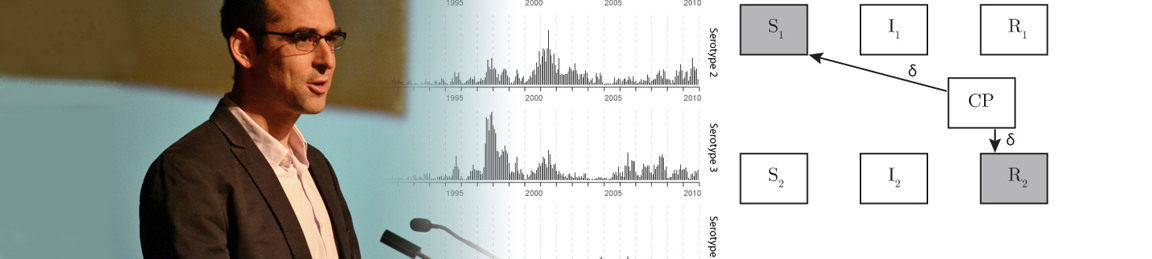
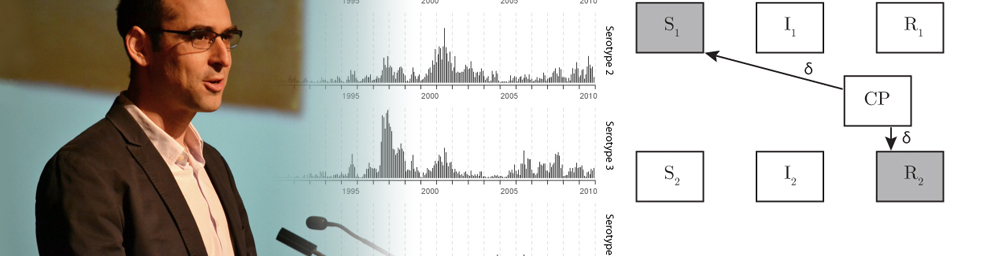
Fix home page carousel

diff --git a/index.html b/index.html
@@ -6,8 +6,10 @@ layout: home
   <div class="carousel">
     {% for image in site.static_files %}
       {% if image.path contains 'images/carousel' %}
-        <div class="carousel-item">
-          <img src="{{ site.baseurl }}{{ image.path }}" class="rounded img-responsive" alt="{{ image.name }}">
+        <div class="carousel-item-home"
+             style="background: url({{ site.baseurl }}{{ image.path }}) no-repeat center center;
+                    min-height: 330px;
+                    background-size: contain">
         </div>
       {% endif %}
     {% endfor %}

diff --git a/assets/js/carousel.js b/assets/js/carousel.js
@@ -4,7 +4,7 @@ $(document).ready(function () {
   $('.carousel').slick({
     infinite: true,
     dots: true,
-    autoplay: true,
+    autoplay: false,
     autoplaySpeed: 3000
   })
 })
